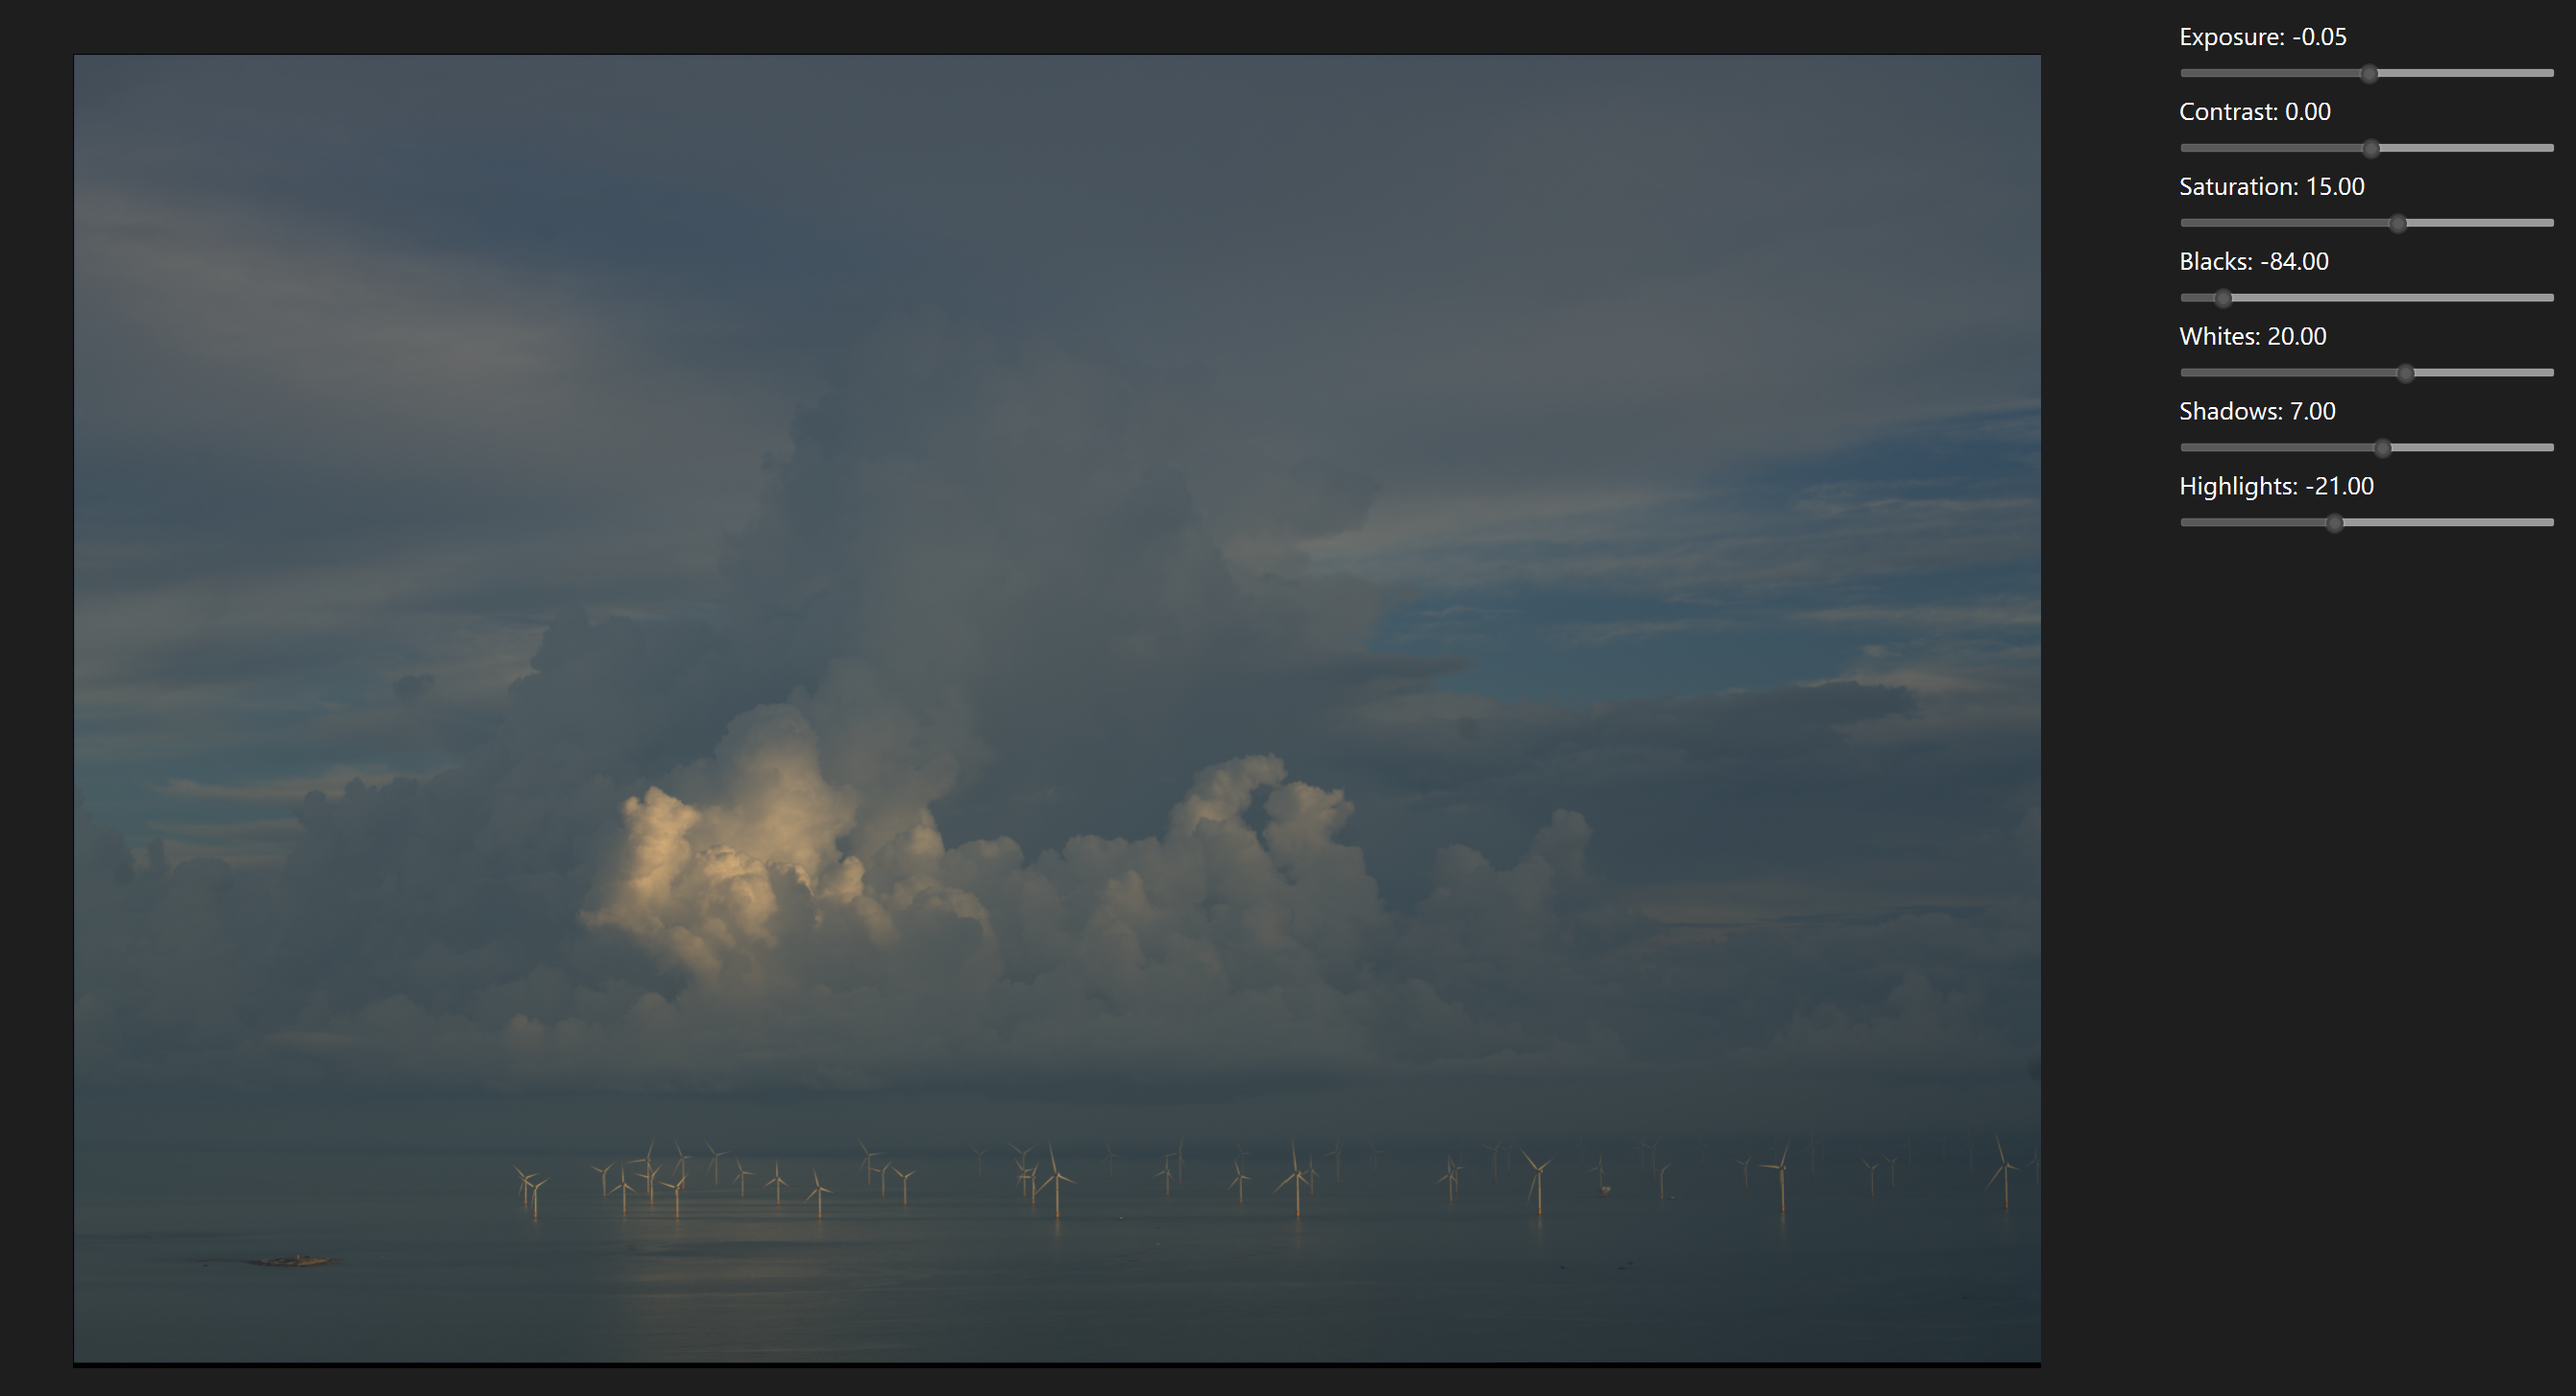
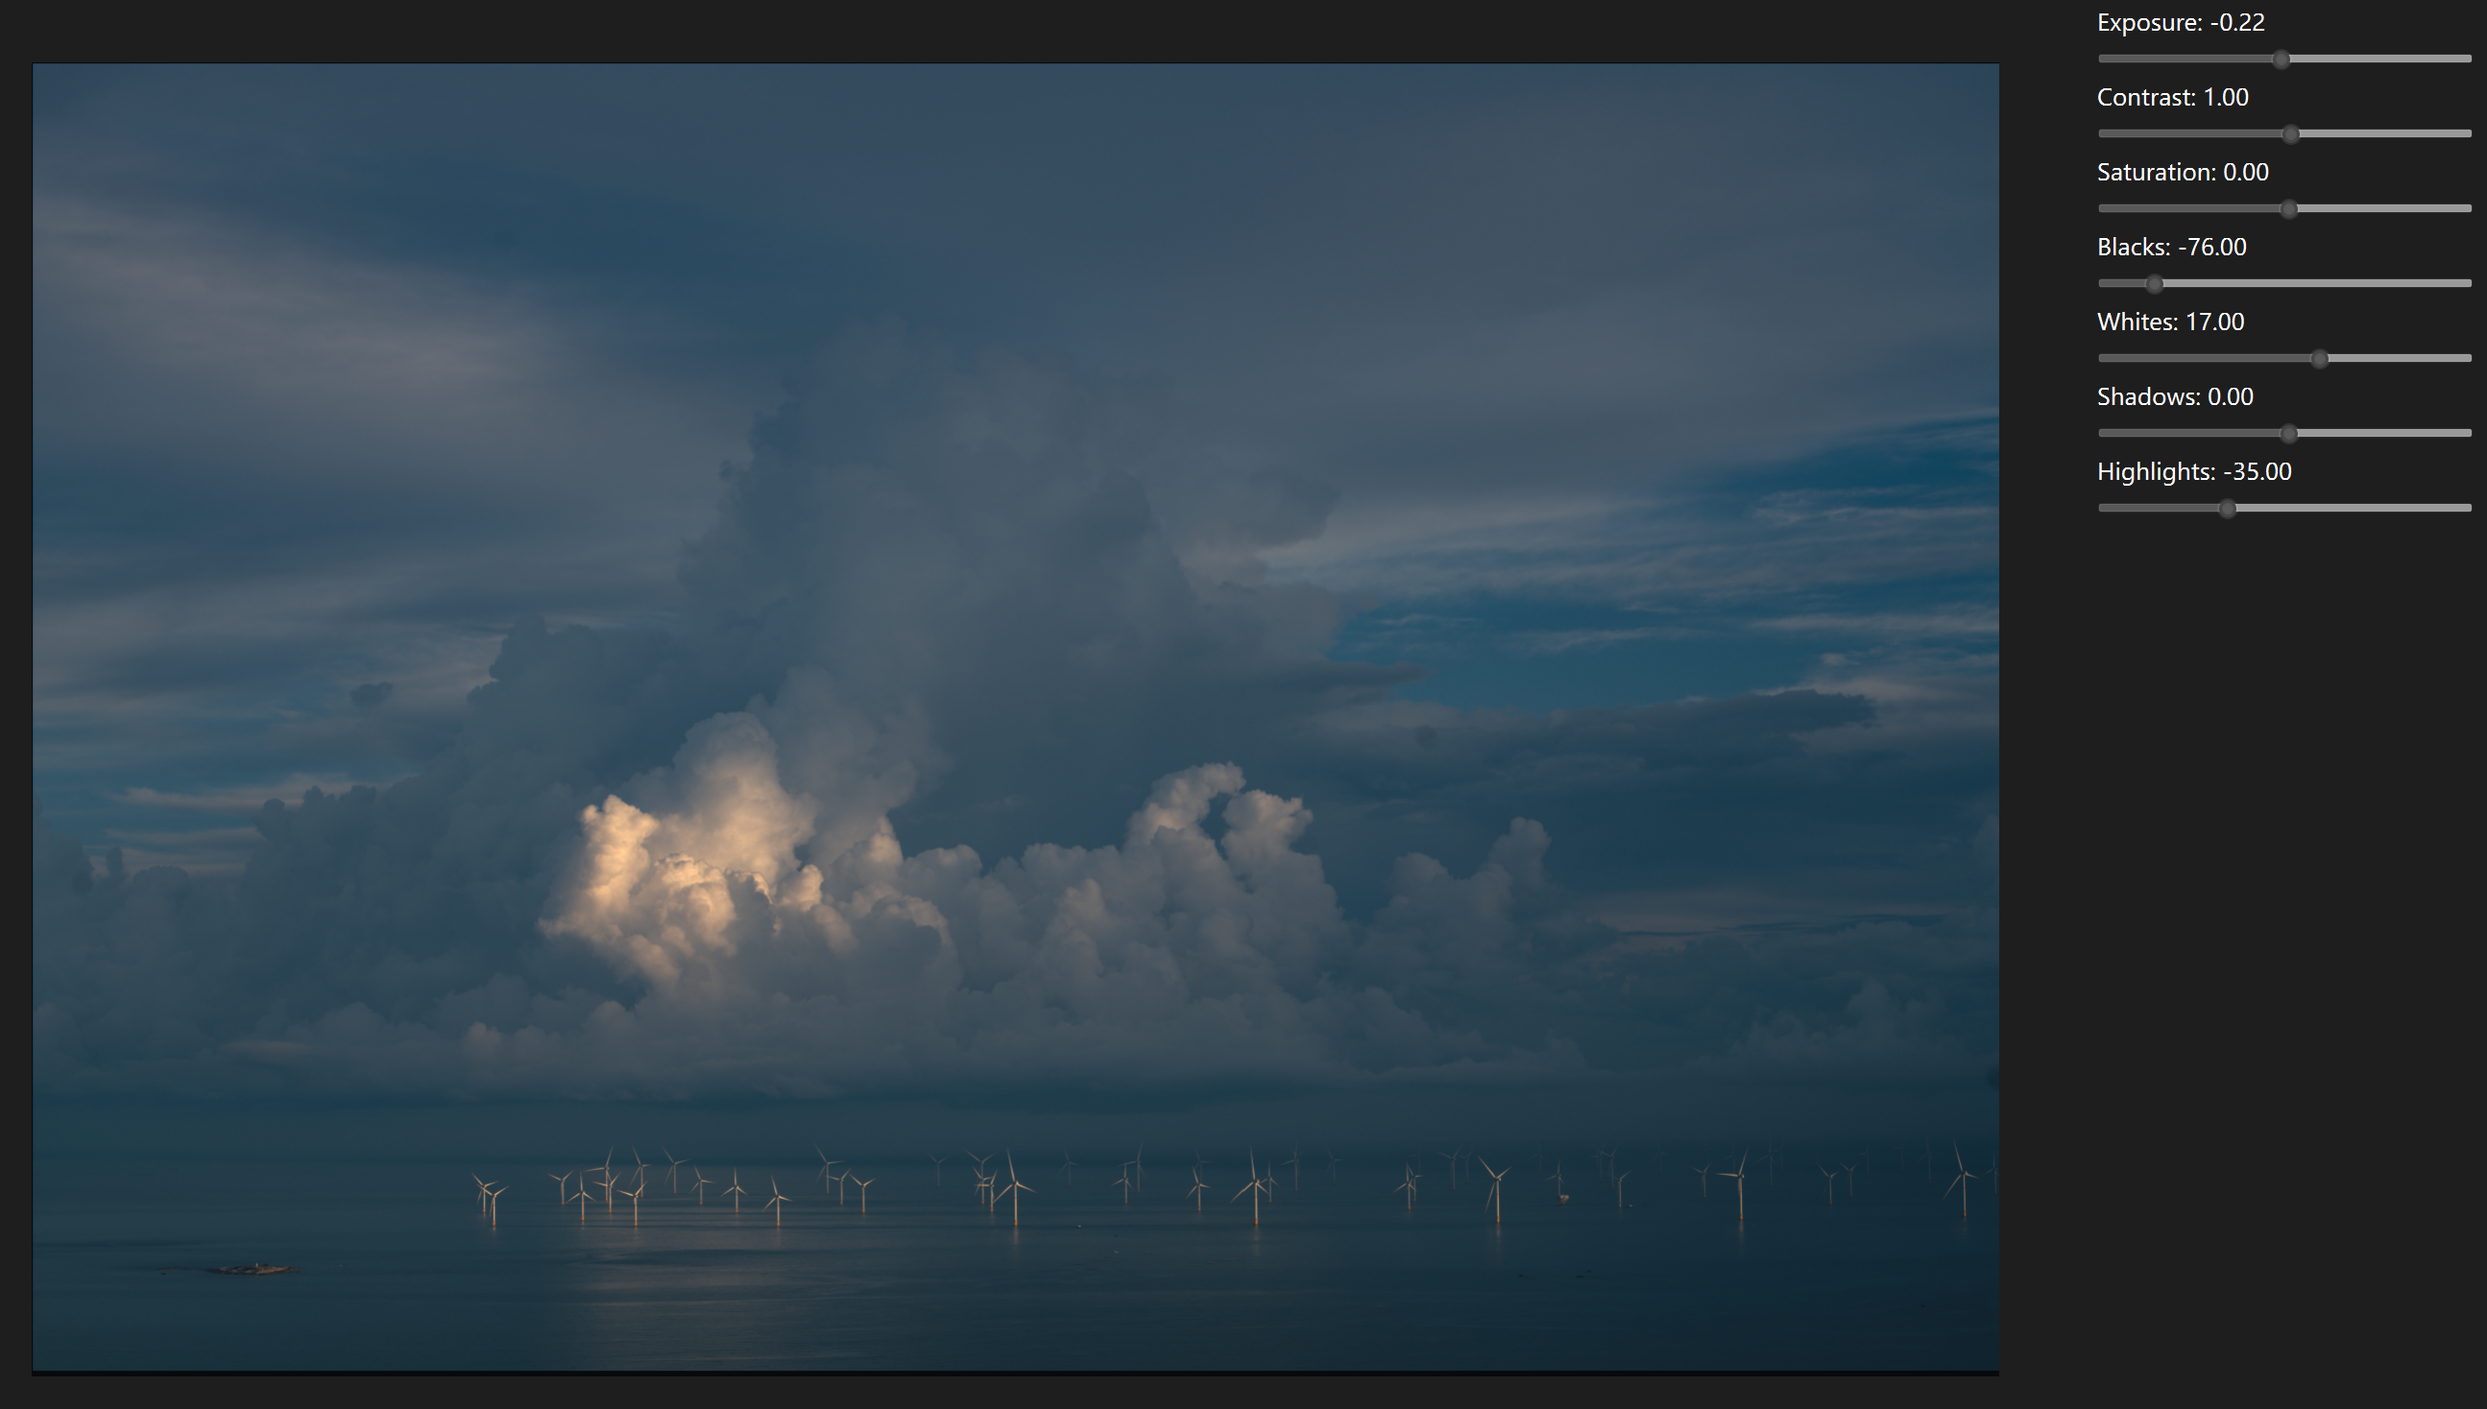
docs: Update README demo screenshot

diff --git a/pu-erh_lab/tests/gui_pocs/image_preview_cpu.cpp b/pu-erh_lab/tests/gui_pocs/image_preview_cpu.cpp
@@ -121,6 +121,8 @@ int main(int argc, char* argv[]) {
 
   auto& color_stage = base_task._pipeline_executor->GetStage(PipelineStageName::Color_Adjustment);
   color_stage.SetOperator(OperatorType::SATURATION, {{"saturation", 0.0f}});
+  std::string LUT_PATH = std::string(CONFIG_PATH) + "LUTs/ACES CCT 2383 D65.cube";
+  color_stage.SetOperator(OperatorType::LMT, {{"ocio_lmt", LUT_PATH}});
 
   // Set execution stages
   base_executor->SetExecutionStages();

diff --git a/README.md b/README.md
@@ -8,7 +8,12 @@
 
 ## 📷 Early Demo Screenshot
 
-![Early Demo Screenshot](docs/demo/editor.png)
+<figure>
+  <img src="docs/demo/editor.png" width="600">
+  <figcaption style="text-align:center; font-size:14px; color:gray;">
+    Shot with Sony A7RIII · Applied <strong>2383 LUT from Cullen Kelly</strong> · Demo Screenshot
+  </figcaption>
+</figure>
 
 ## 🎯 Vision
 
